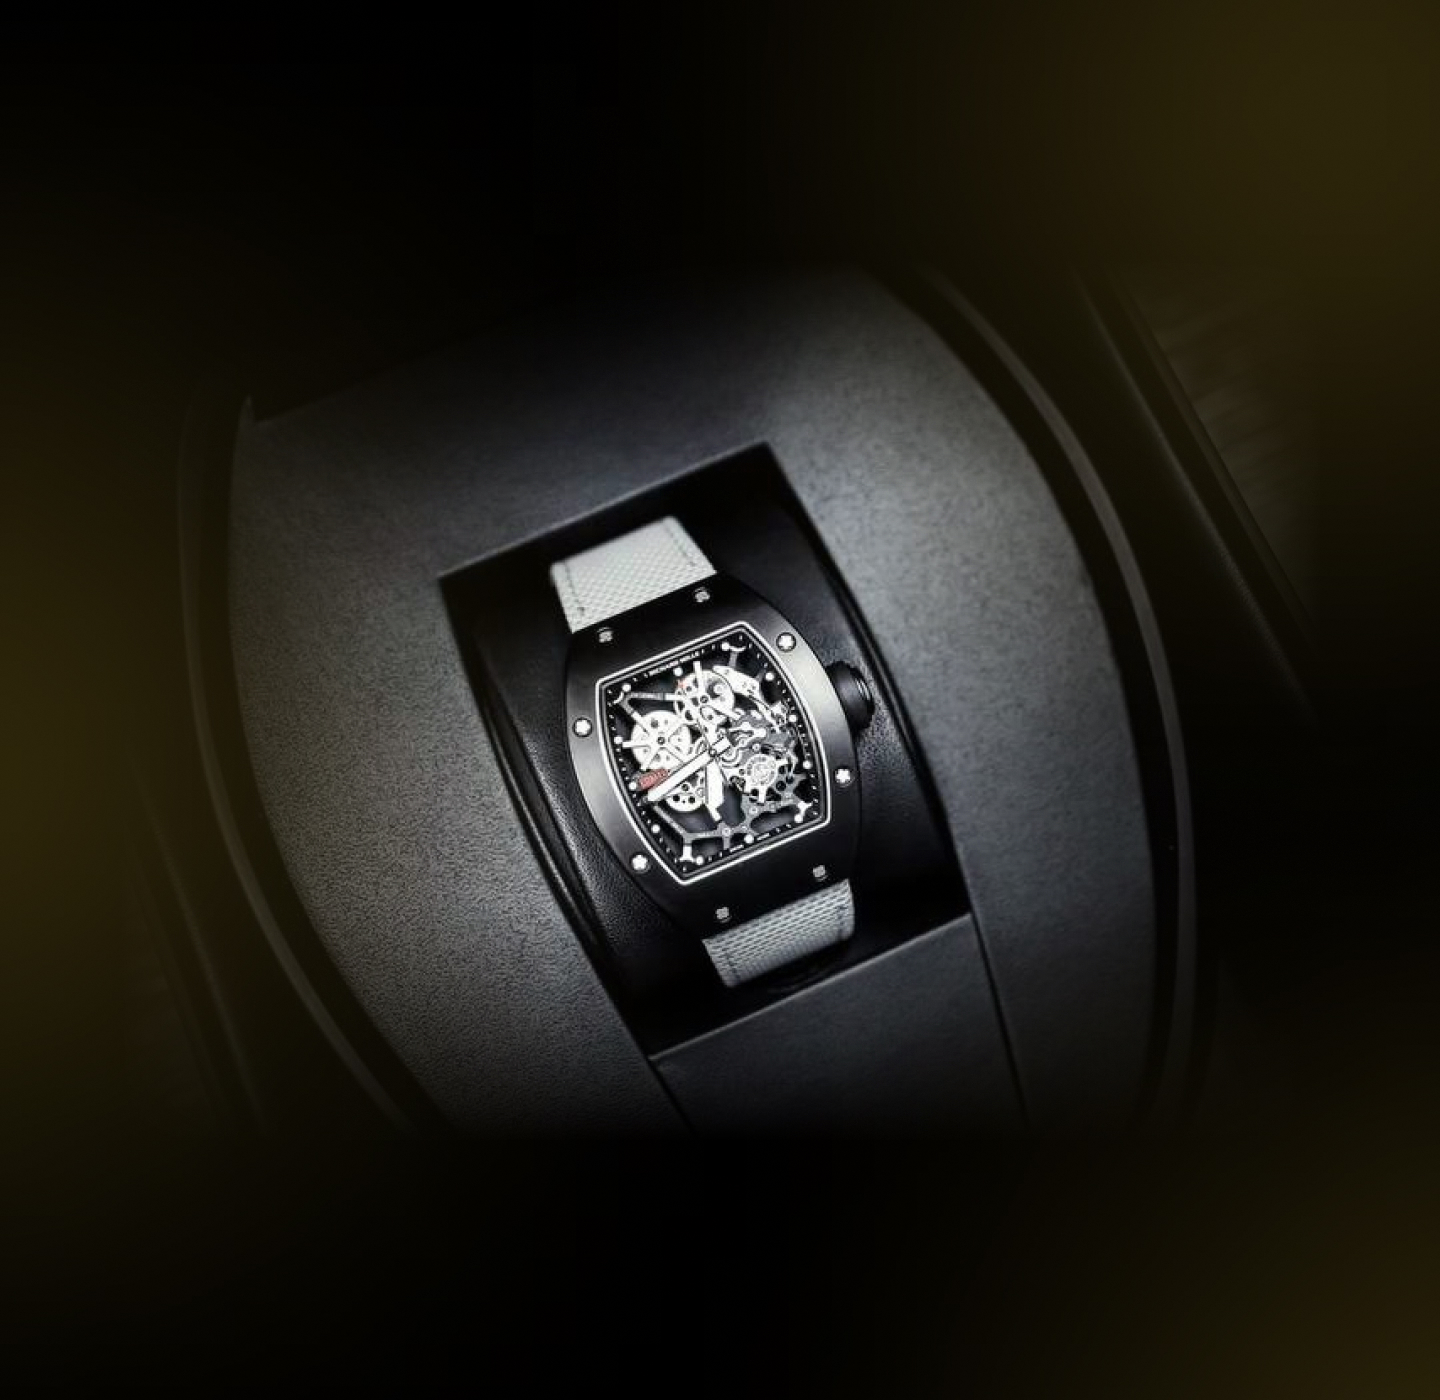
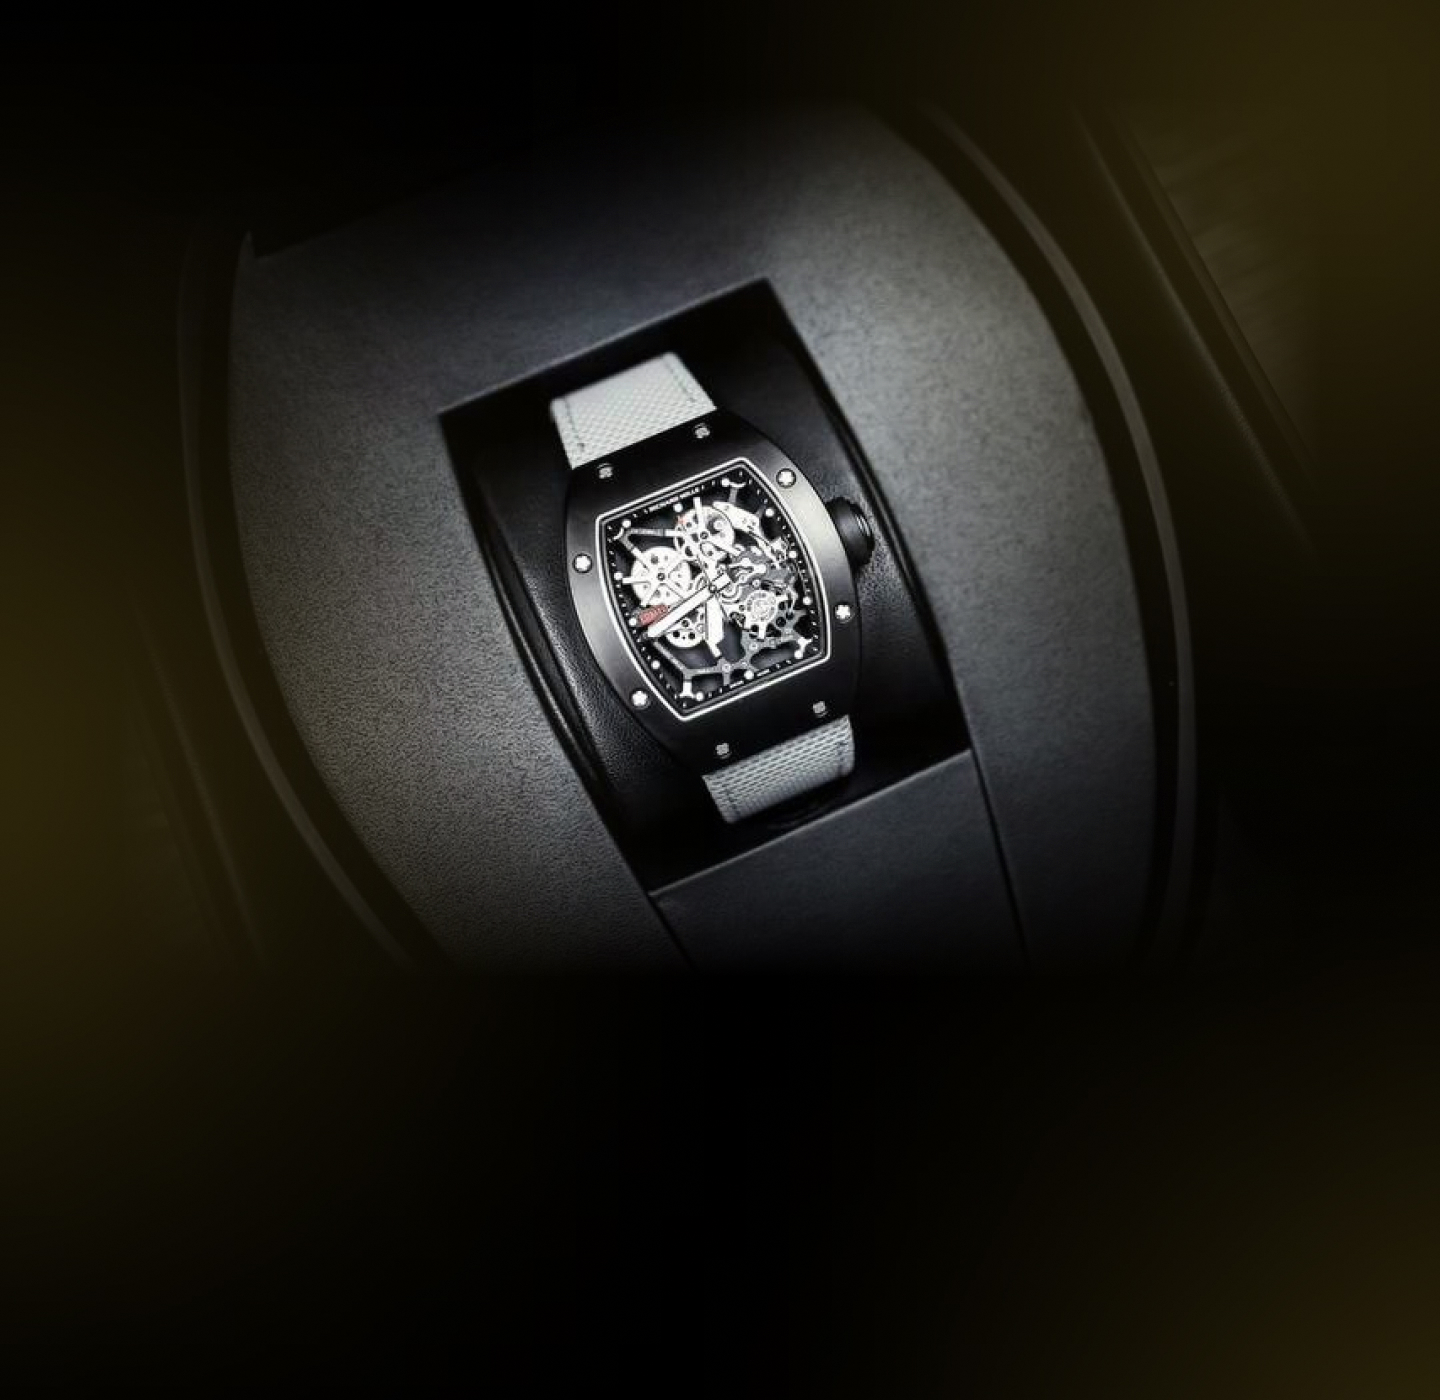
add: remove space in hero section

Changed region(s): [[0.1562, 0.0921, 0.8438, 0.7986]]

diff --git a/src/app/page.tsx b/src/app/page.tsx
@@ -79,13 +79,14 @@ export default function Home() {
       {/* SECTION: HERO*/}
       <section className="overflow-hidden w-full flex justify-center bg-gradient-to-right from-dark-gold to-light-gold">
         <div className="w-full overflow-hidden items-center flex justify-center flex-col absolute p-8">
-          <nav className="w-full px-8 py-24 items-center justify-center flex flex-col">
+          <nav className="w-full px-8 py-24 items-center justify-center flex flex-col mb-[300px] xl:mb-[600px]">
             <img
               className="w-full max-w-[139px] h-auto"
               src="/logo.png"
               alt="Apex Watch Club Logo"
             />
           </nav>
+
           <h1 className="text-2xl md:text-4xl mx-4 text-center max-w-[600px] mb-8 text-transparent bg-gradient-to-r from-dark-gold to-light-gold bg-clip-text">
             THE FUTURE OF LUXURY WATCH OWNERSHIP AND TRADING
           </h1>
@@ -97,7 +98,7 @@ export default function Home() {
         </div>
 
         <img
-          className="w-full min-w-[600px] h-auto"
+          className="w-full min-w-[900px] h-auto"
           src="/hero_reduced.jpg"
           alt="Hero Watch"
         />
